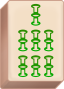
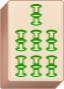
new skin 2, wooos bug still

diff --git a/backend/common.py b/backend/common.py
@@ -24,8 +24,39 @@ class Player:
             'come': [99] * len(self.come) if mask else self.come,
         }
 
+    def _wooos(self, groups, tiles):
+        if len(tiles) == 0:
+            if [len(g) for g in groups].count(2) != 1: 
+                return []
+            # return [sorted([list(g) for g in groups])]
+            return [sorted([list(g) for g in groups], key=lambda g: len(g), reverse=True)]
+        if len(tiles) == 1:
+            return []
+        tile = tiles[0]
+        count = tiles.count(tile)
+        ans = []
+        if count >= 3:
+            _groups = groups + [[tile] * 3]
+            _tiles = tiles[3:]
+            ans += self._wooos(_groups, _tiles)
+        if count >= 2:
+            _groups = groups + [[tile] * 2]
+            _tiles = tiles[2:]
+            ans += self._wooos(_groups, _tiles)
+        if count >= 1:
+            if 1 <= (tile // 10) <= 3 and 1 <= (tile % 10) <= 7:
+                if (tile + 1) in tiles and (tile + 2) in tiles:
+                    _groups = groups + [[tile,tile+1,tile+2]]
+                    _tiles = tiles
+                    for i in [tile,tile+1,tile+2]: 
+                        _tiles.remove(i)
+                    ans += self._wooos(_groups, _tiles)
+        return ans
+
     def wooos(self, tile):
-        return []
+        ans = self._wooos(self.show, sorted(self.hide + [tile]))
+        ans = [eval(ee) for ee in sorted(set([str(e) for e in ans]))]
+        return ans
 
     def gongs(self, tile):
         if self.hide.count(tile) == 3:
@@ -114,7 +145,7 @@ class Game:
         random.shuffle(groups)
         for i in [0,1,2,3]:
             p = self.prs[i]
-            p.show = [groups.pop(0) for j in range(random.randint(0,2))]
+            p.show = [groups.pop(0) for j in range(random.randint(0,3))]
             for group in p.show:
                 for tile in group:
                     self.bag.remove(tile)
@@ -136,6 +167,7 @@ class Game:
 
     def get_data(self, num):
         pr = self.prs[num]
+        mask = (self.state != 'END')
         pos_list = ['bottom','left','top','right']
         diff = self.num_diff(self.cnum, num)
         tmp = pr.actions(self.ctile, diff)
@@ -148,12 +180,12 @@ class Game:
             'cpos': pos_list[diff],
             'ctile': self.ctile,
             'bottom': self.prs[num].to_dict(False),
-            'right': self.prs[(num + 1) % 4].to_dict(True),
-            'top': self.prs[(num + 2) % 4].to_dict(True),
-            'left': self.prs[(num + 3) % 4].to_dict(True),
+            'right': self.prs[(num + 1) % 4].to_dict(mask),
+            'top': self.prs[(num + 2) % 4].to_dict(mask),
+            'left': self.prs[(num + 3) % 4].to_dict(mask),
             'action': {
                 'play': (self.state == 'PLAY' and num == self.cnum),
-                'wooo': (self.state == 'ACTION' and len(tmp['WOOO']) > 0 and diff != 0),
+                'wooo': (self.state in ['PLAY','ACTION'] and len(tmp['WOOO']) > 0),
                 'gong': (self.state == 'ACTION' and len(tmp['GONG']) > 0 and diff != 0),
                 'pong': (self.state == 'ACTION' and len(tmp['PONG']) > 0 and diff != 0),
                 'song': (self.state == 'ACTION' and len(tmp['SONG']) > 0 and diff == 1),
@@ -166,12 +198,17 @@ class Game:
         if self.state != 'ACTION':
             return False
         pr = self.prs[num]
+        diff = self.num_diff(self.cnum, num)
+        groups = pr.action(atype, self.ctile, diff)
         if atype == 'CANCEL':
             pr.atype = atype
             return self.check_action()
-        if atype in ['WOOO','GONG','PONG','SONG']:
-            diff = self.num_diff(self.cnum, num)
-            if agroup not in pr.action(atype, self.ctile, diff):
+        if atype == 'WOOO':
+            if len(groups) == 0:
+                return False
+            self.check_action()
+        if atype in ['GONG','PONG','SONG']:
+            if agroup not in groups:
                 return False
             pr.atype = atype
             pr.agroup = agroup
@@ -215,7 +252,7 @@ class Game:
                 if len(groups) == 0: continue
                 if pr.atype is None: return True
                 if pr.atype != atype: continue
-                if pr.agroup not in groups: continue
+                if atype != 'WOOO' and pr.agroup not in groups: continue
                 return self.do_action_end(num, pr.atype, pr.agroup)
         self.pool += [self.ctile]
         return self.do_mooo((self.cnum + 1) % 4)

diff --git a/backend/test.py b/backend/test.py
@@ -1,8 +1,13 @@
 from common import *
 
 pr = Player()
-pr.hide = [11,12,13,13,15,18,18,18,19,23,25,43,45]
-tile = 34
-print('gong', pr.if_gong(tile))
-print('pong', pr.if_pong(tile))
-print('song', pr.if_song(tile))
+pr.show = [[11,12,13]]
+pr.hide = [11,11,12,12,13,13,14,14,14,15]
+ans = pr.wooos(13)
+for a in ans: print(a)
+# pr = Player()
+# pr.hide = [11,12,13,13,15,18,18,18,19,23,25,43,45]
+# tile = 34
+# print('gong', pr.if_gong(tile))
+# print('pong', pr.if_pong(tile))
+# print('song', pr.if_song(tile))
